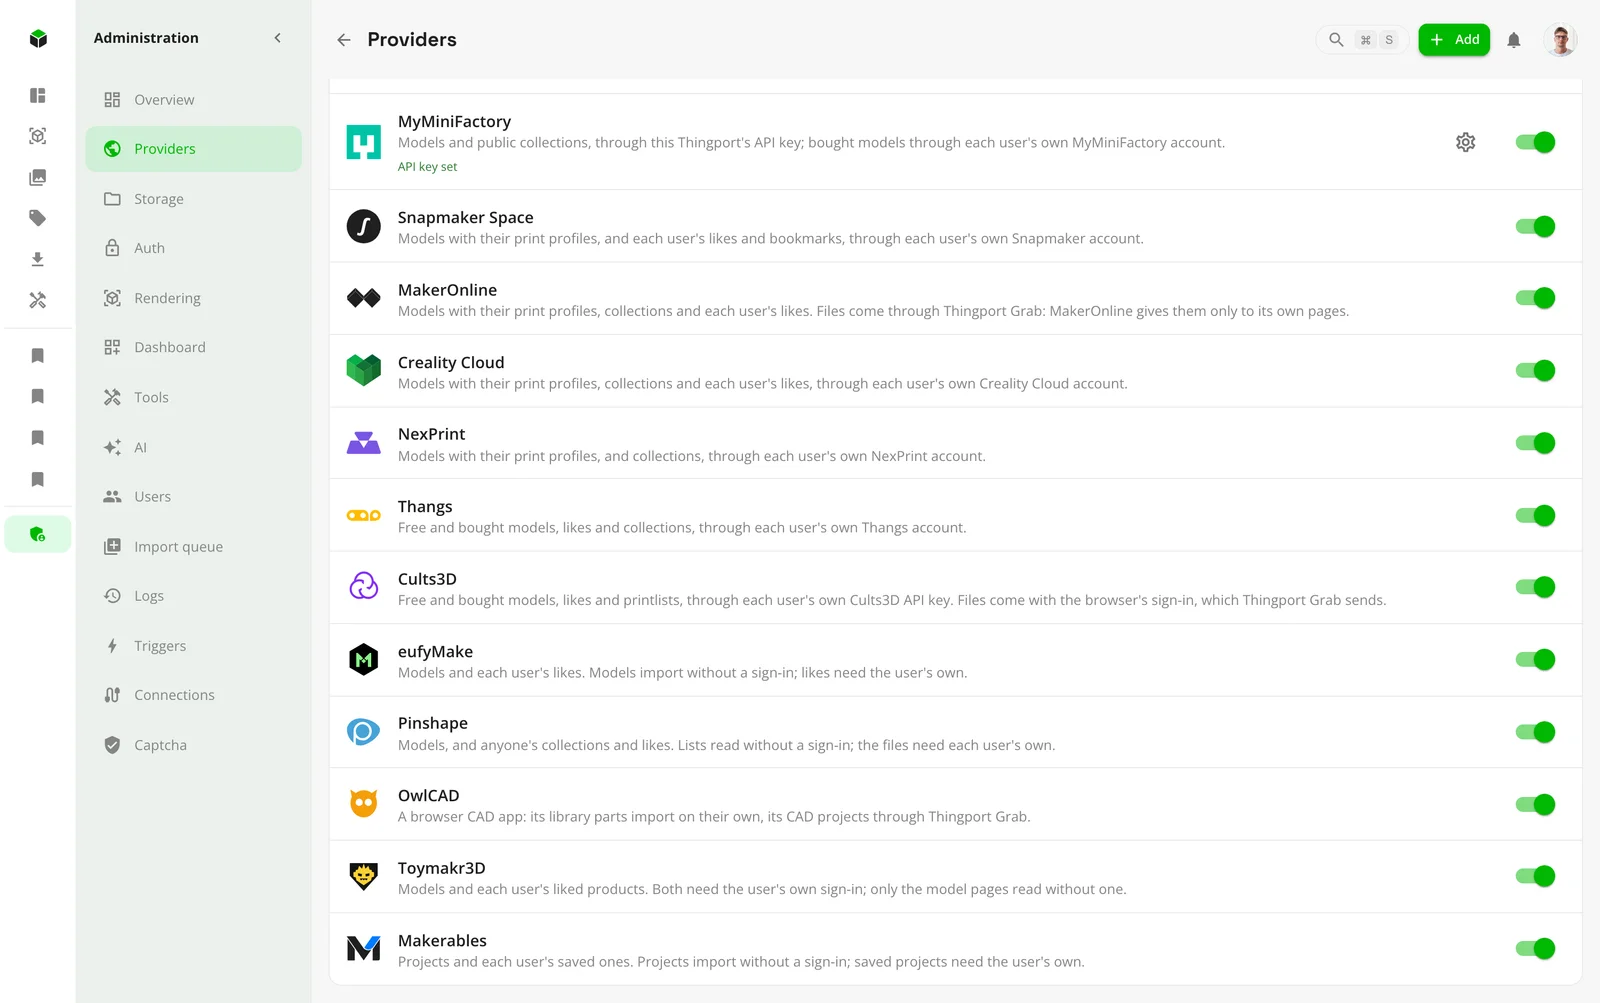
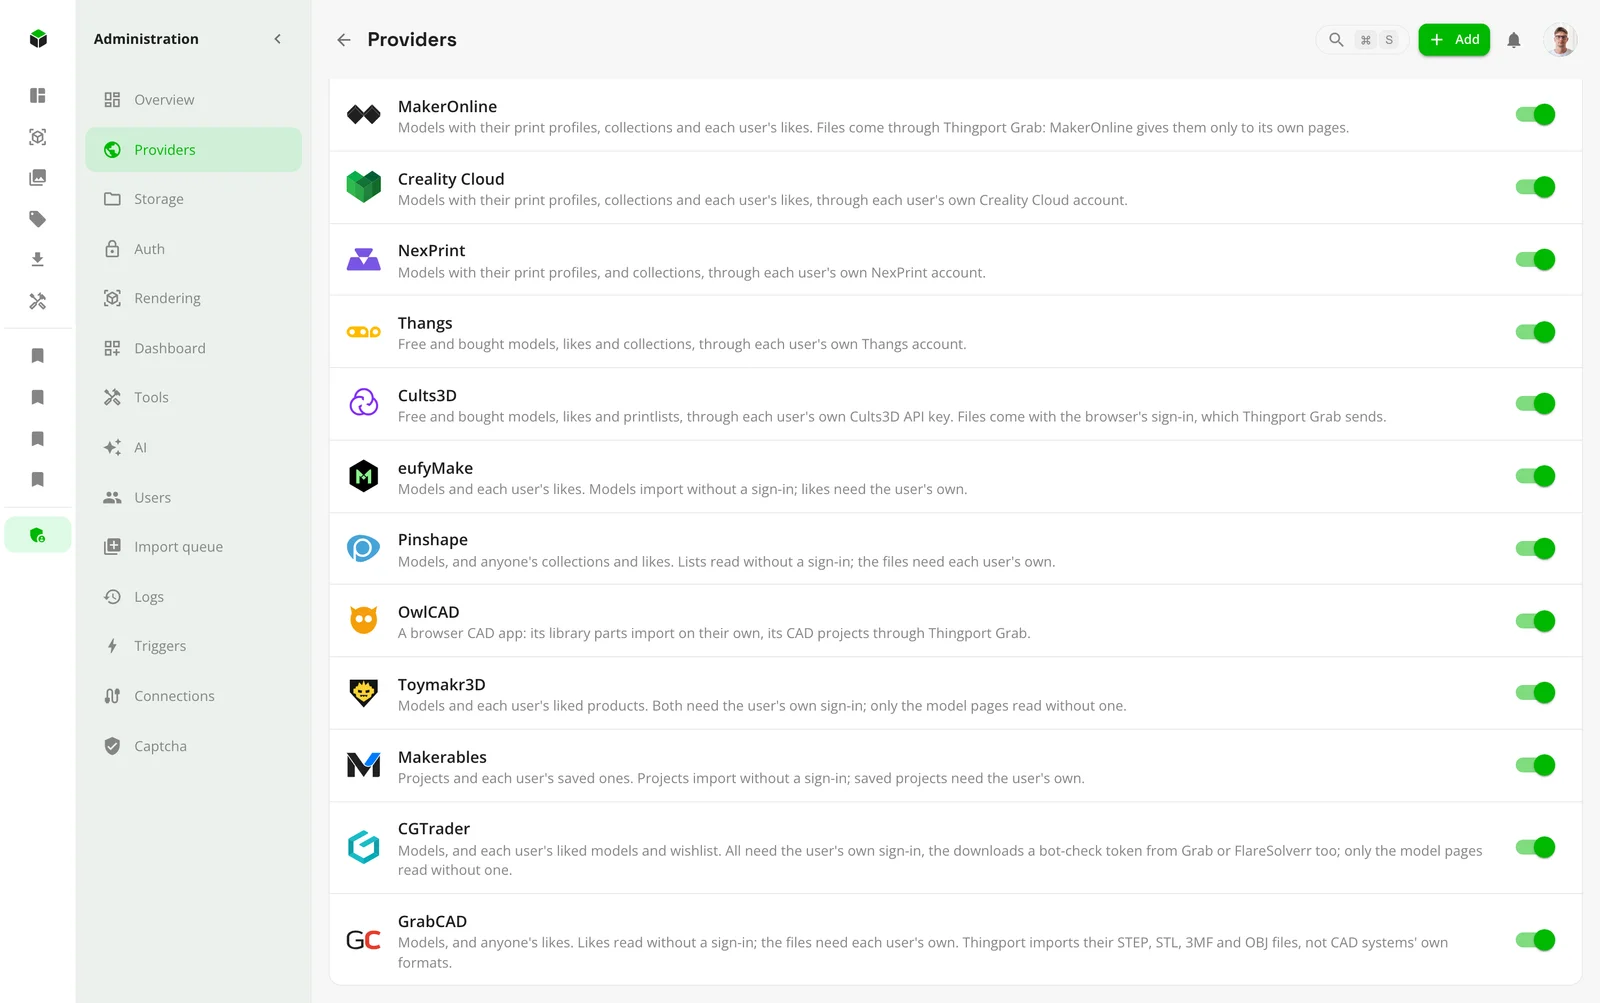
docs: count CGTrader and GrabCAD among 1.4.0's new sites
CGTrader (#195) and GrabCAD (#196) were merged after the notes were written, so the release now brings five new
sites rather than three, and Thingport imports from seventeen. The notes, the release post and the admins'
notification say so, the providers item links the setup guide that covers all five instead of OwlCAD's page alone,
and its screenshot was captured again with GrabCAD, now at the foot of the list, scrolled into view.

diff --git a/web/src/content/blog/thingport-1-4-0.md b/web/src/content/blog/thingport-1-4-0.md
@@ -1,6 +1,6 @@
 ---
 title: "Thingport 1.4.0: tools that build models, and models you can change"
-description: "Thingport now runs small apps of its own — planners, generators and calculators that read your library and save back into it, nine to install and an editor to write your own. A model that came with its script opens the creator's own sliders and generates again in your browser, in colour. Plus pairing for Thingport Grab instead of a saved password, three new sites, and a way to find the models whose files have gone."
+description: "Thingport now runs small apps of its own — planners, generators and calculators that read your library and save back into it, nine to install and an editor to write your own. A model that came with its script opens the creator's own sliders and generates again in your browser, in colour. Plus pairing for Thingport Grab instead of a saved password, five new sites with CGTrader and GrabCAD among them, and a way to find the models whose files have gone."
 pubDate: 2026-10-29
 tags: ["release", "tools", "generative", "multicolor", "grab", "providers"]
 ---
@@ -13,8 +13,8 @@ actually needs.
 calculators that read your library and save back into it, nine of them to install, with an editor and an AI route for
 writing your own. A model that arrived with the script it was generated from opens the creator's own sliders and
 generates again in your browser. Models painted in several filaments keep their colours all the way to the plate.
-Thingport Grab pairs with your instance instead of keeping a password, three more sites import, and a new check finds
-the models whose files have gone missing.
+Thingport Grab pairs with your instance instead of keeping a password, five more sites import — CGTrader and GrabCAD
+among them — and a new check finds the models whose files have gone missing.
 
 ## Tools: small apps that work with your library
 
@@ -116,11 +116,23 @@ out of its floating icon and shows what you're importing: the model's picture an
 that searches your collections and creates a new one as you type. On MakerWorld it also says, before you commit,
 whether the model's generator script comes with it. See [Thingport Grab](/docs/grab/).
 
-## Three new sites: OwlCAD, Toymakr3D and Makerables
+## Five new sites: CGTrader, GrabCAD, OwlCAD, Toymakr3D and Makerables
 
-Thingport now imports from fifteen sites.
+Thingport now imports from seventeen sites, two of them among the largest model libraries there are.
 
-![The newest three, at the foot of fifteen sites](../../../../release-notes/screenshots/1.4.0-providers.webp)
+![The newest five, at the foot of seventeen sites](../../../../release-notes/screenshots/1.4.0-providers.webp)
+
+[CGTrader](/docs/providers/cgtrader/) is a marketplace of over three million models, with a large 3D printing
+catalogue beside its game and film assets. Its free models import with your sign-in, and so do your liked models and
+your wishlist, in one go or synced. A paid model you haven't bought is refused before anything downloads; Thingport
+never buys anything. AWS's bot check stands in front of its downloads, and Thingport gets past it
+with your browser's token, which Thingport Grab sends along with your sign-in, or with one FlareSolverr gets for it.
+
+[GrabCAD](/docs/providers/grabcad/) is Stratasys's free library of engineers' CAD models, from single parts to whole
+machines, shared mostly as STEP files that a slicer opens as they are. Thingport takes the files a slicer opens and
+leaves each CAD system's own formats behind. Downloading needs your sign-in, which lasts two days from its last use:
+visiting GrabCAD now and then keeps it alive, and Grab sends a new one whenever it changes. Anyone's likes import, or
+sync, not just your own.
 
 [OwlCAD](/docs/providers/owlcad/) is a parametric CAD app that runs in the browser and needs no sign-in at all. Its
 library parts convert here, and its CAD projects — which have no file anywhere, only a script OwlCAD's own kernel
@@ -128,7 +140,7 @@ builds into geometry — are exported by Thingport Grab from an editor tab.
 [Toymakr3D](/docs/providers/toymakr3d/) is one designer's articulated robot and mecha models, most of them free, and
 asks for your sign-in even for those. [Makerables](/docs/providers/makerables/) is Makera's project site, where
 desktop CNC and 3D printing meet; its projects and their files import without a sign-in, and only the ones you saved
-need one. All three are on for everyone under **Administration → Providers**.
+need one. All five are on for everyone under **Administration → Providers**.
 
 ## Find the models whose files have gone
 
